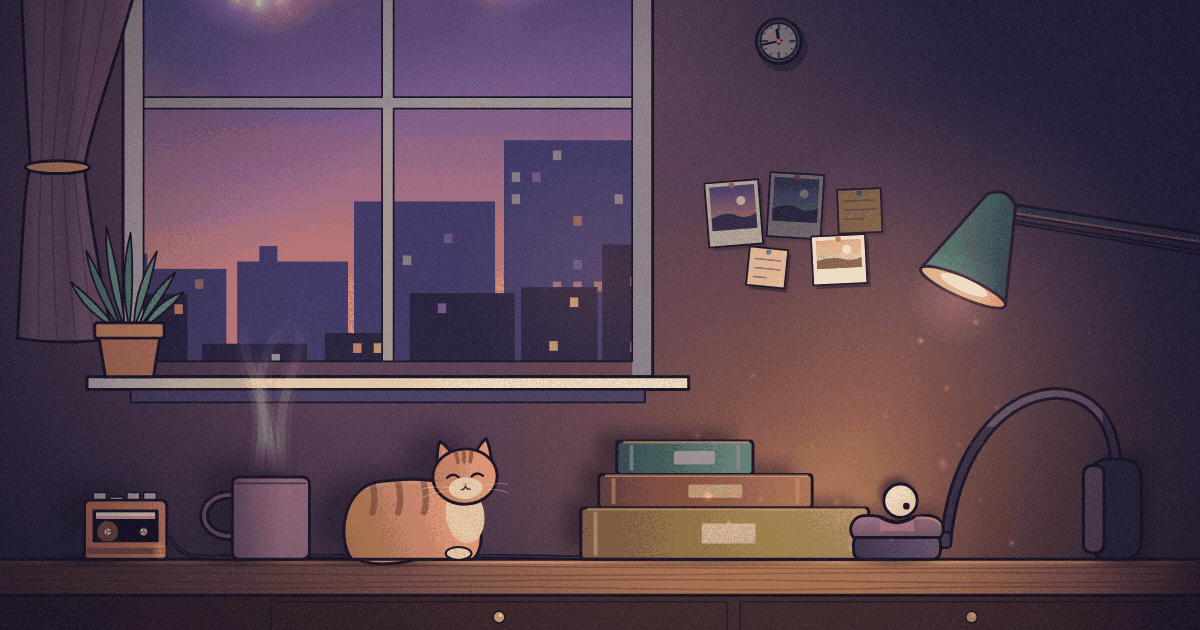
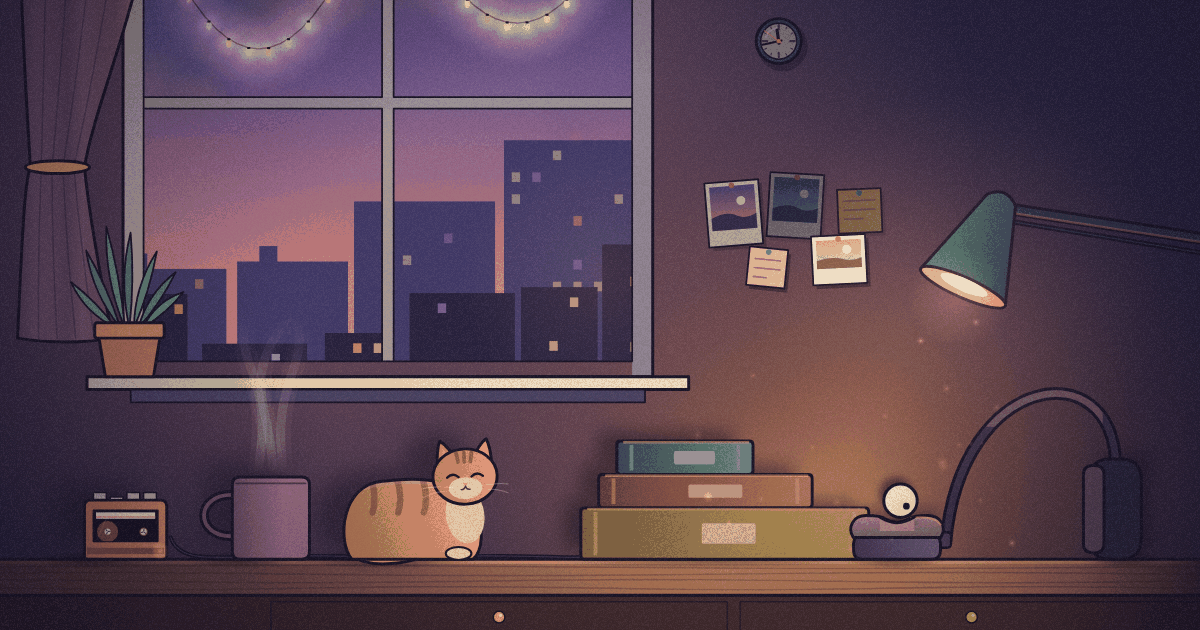
Soft Lamp: the cat plays to the camera, and the fairy lights drape into frame
The sixth lofi pass:

- Motion checked a tenth of a second at a time through the drop, the
  lob's landing and the pot, and a turn of the cat's mood: nothing pops.
- The cat's nodding along and its yawns were chosen by chance and mostly
  fell while the camera was on the cup close, which cannot show it. It now
  plays to the camera (catInViewAt): likelier to nod along through a phrase
  the camera spends on it, and yawning only in view. Seven and a half of
  its eleven minutes nodding are seen, and all six yawns.
- The fairy lights' two window swags hang lower, so the room's frames have
  the string draped across their top instead of glows cut off by it.
- Share card regenerated; the report has the pass.

Changed region(s): [[0.1542, 0.0, 0.3083, 0.1206], [0.37, 0.0, 0.4933, 0.0905]]

diff --git a/apps/rube/src/shows/versions/soft-lamp/lamp/cat.ts b/apps/rube/src/shows/versions/soft-lamp/lamp/cat.ts
@@ -1,6 +1,7 @@
 import { sweepAt } from './decor'
 import { CAT } from './desk'
-import { TRACKS, barTime, beatOf, drumsAt, grooving, smooth, trackAt } from './music'
+import { catInViewAt } from './camera'
+import { TRACKS, barTime, beatOf, drumsAt, grooving, smooth, trackAt, type Track } from './music'
 import { LANDINGS, LAPS, ballAt } from './route'
 import { rgba } from './sky'
 import { hash, lampAt, lightAt, lit } from './world'
@@ -57,8 +58,10 @@ function ballGaze(t: number, lag: number): { x: number; y: number } {
  * How far it is lost in the music, 0 (watching) to 1 (eyes shut, nodding along): through the groove, while the ball
  * sits in the cup, a phrase (eight bars) at a time, each phrase its own choice; eased in and out over a beat and a bit.
  */
-function vibing(n: number, phrase: number): number {
-  return hash(n, phrase, 97) < 0.5 ? 1 : 0
+function vibing(tr: Track, phrase: number): number {
+  // It plays to the camera: likelier to be lost in it through a phrase the camera spends looking at it.
+  const mid = barTime(tr, tr.entry + phrase * 8 + 4)
+  return hash(tr.n, phrase, 97) < (catInViewAt(mid) ? 0.8 : 0.25) ? 1 : 0
 }
 export function vibeAt(t: number): number {
   const tr = trackAt(t)
@@ -67,8 +70,8 @@ export function vibeAt(t: number): number {
   if (!lap || t < lap.cup + 4 * tr.period || (lap.lob !== null && t > lap.lob - 4 * tr.period) || !grooving(tr, bar)) return 0
   const phrase = Math.floor((bar - tr.entry) / 8)
   const start = barTime(tr, tr.entry + phrase * 8)
-  const was = phrase > 0 ? vibing(tr.n, phrase - 1) : 0
-  const now = vibing(tr.n, phrase)
+  const was = phrase > 0 ? vibing(tr, phrase - 1) : 0
+  const now = vibing(tr, phrase)
   // Into it and out of it gently, and out of it again ahead of the lob, or a break.
   const v = was + (now - was) * smooth(t, start, start + 1.5 * tr.period)
   const nextBar = barTime(tr, bar + 1)
@@ -78,16 +81,16 @@ export function vibeAt(t: number): number {
 }
 
 /**
- * Its yawns: a few through the night, more of them late, each a good three seconds, while the ball sits and the cat is
- * not lost in the music.
+ * Its yawns: a few through the night, more of them late, each a good three seconds, while the ball sits and the camera
+ * is on it (a yawn comes over a nod, too).
  */
 export const YAWNS: number[] = [2, 4, 6, 8, 9, 10].map((n) => {
   const lap = LAPS[n]
   const tr = TRACKS[n]
-  // A while after the ball has settled, in a phrase it spends watching.
-  for (let k = 0; k < 12; k++) {
+  // A while after the ball has settled, while the camera is on it.
+  for (let k = 0; k < 40; k++) {
     const at = lap.cup + 10 + k * 4 * tr.period + hash(n, k, 99) * 2
-    if (vibeAt(at) < 0.01 && vibeAt(at + 3.2) < 0.01 && (lap.lob === null || at + 4 < lap.lob - 8 * tr.period)) return at
+    if (catInViewAt(at) && catInViewAt(at + 3.2) && (lap.lob === null || at + 4 < lap.lob - 8 * tr.period)) return at
   }
   return -100
 })

diff --git a/apps/rube/src/shows/versions/soft-lamp/lamp/camera.ts b/apps/rube/src/shows/versions/soft-lamp/lamp/camera.ts
@@ -1,5 +1,5 @@
 import type { Framing } from '../../../registry'
-import { SILL } from './desk'
+import { PROPS, SILL } from './desk'
 import { TRACKS, barTime } from './music'
 import { LAPS, ballAt } from './route'
 
@@ -139,6 +139,22 @@ export function camera(t: number): Framing {
     lc += (Math.log(a.cells) - Math.log(p.cells)) * f
   }
   return { x, y, cells: Math.exp(lc) }
+}
+
+/**
+ * Whether the camera's frame from `t` on (the aim it is settling into) shows the cat whole: so the cat can play to
+ * the camera, saving its nodding along and its yawns for when someone is looking.
+ */
+export function catInViewAt(t: number): boolean {
+  let a = AIMS[0]
+  for (const aim of AIMS) {
+    if (aim.t > t) break
+    a = aim
+  }
+  const [x0, y0, x1, y1] = PROPS.cat
+  const hw = (a.cells * 16) / 9 / 2
+  const hh = a.cells / 2
+  return x0 >= a.x - hw && x1 <= a.x + hw && y0 >= a.y - hh && y1 <= a.y + hh
 }
 
 export { AIMS }

diff --git a/apps/rube/src/shows/versions/soft-lamp/lamp/decor.ts b/apps/rube/src/shows/versions/soft-lamp/lamp/decor.ts
@@ -118,8 +118,9 @@ interface Bulb {
 /** Where the string hangs: swags between hooks, sagging as far as each says. */
 const SWAGS: [number, number, number, number, number][] = [
   // x0, y0, x1, y1, sag
-  [WINDOW.x0 + 0.05, WINDOW.y0 + 0.08, WINDOW.mullion, WINDOW.y0 + 0.08, 1.05],
-  [WINDOW.mullion, WINDOW.y0 + 0.08, WINDOW.x1 - 0.05, WINDOW.y0 + 0.08, 0.85],
+  // Deep enough to hang into the room's frames as a drape, not glows cut off by their top edge.
+  [WINDOW.x0 + 0.05, WINDOW.y0 + 0.08, WINDOW.mullion, WINDOW.y0 + 0.08, 1.45],
+  [WINDOW.mullion, WINDOW.y0 + 0.08, WINDOW.x1 - 0.05, WINDOW.y0 + 0.08, 1.25],
   [WINDOW.x1 - 0.05, WINDOW.y0 + 0.08, 2.75, -4.95, 0.45],
 ]
 /** A point along a swag, `u` 0 to 1: a parabola from hook to hook, `sag` below the chord at its middle. */

diff --git a/apps/rube/src/shows/versions/soft-lamp/SOFTLAMP.md b/apps/rube/src/shows/versions/soft-lamp/SOFTLAMP.md
@@ -263,6 +263,18 @@ ball. The machine and its timing were right and are untouched; the room around i
     one thing in the room that moves on the second. Sized to the gap between two held frames' edges, so every frame
     shows it whole or not at all.
 
+### The sixth lofi pass
+
+34. **Motion, frame by frame**: the drop, the lob's landing and the pot, a turn of the cat's mood, each at a tenth of
+    a second, show nothing popping or jumping.
+35. **The cat's best moments were mostly off camera.** Its nodding along was chosen by chance, a phrase at a time, and
+    the camera often spent those phrases on the cup close, which cannot show the cat; three of its six yawns fell
+    there too. Now it plays to the camera (`catInViewAt` in `lamp/camera.ts`): it is likelier to be lost in the music
+    through a phrase the camera spends on it, less likely otherwise, and it yawns only in view (a yawn comes over a
+    nod). Of its eleven minutes nodding along, seven and a half are seen; all six yawns are.
+36. **The fairy lights were glows cut off by the top of the room's frames**, their bulbs just out of it. The two swags
+    across the window hang lower, so those frames have the string draped across their top, bulbs and all.
+
 **Subtracted:** the light cone; the pages turning on each track (considered and not built: the page is the notebook's
 second job); a cable from the headphones (until the Walkman gave it somewhere to go); a drinking bird that would have lifted the ball (a character, and a gag);
 the headphone "U" the ball first rocked in; the beads' dark cover; a quarter of the drops on the glass.
